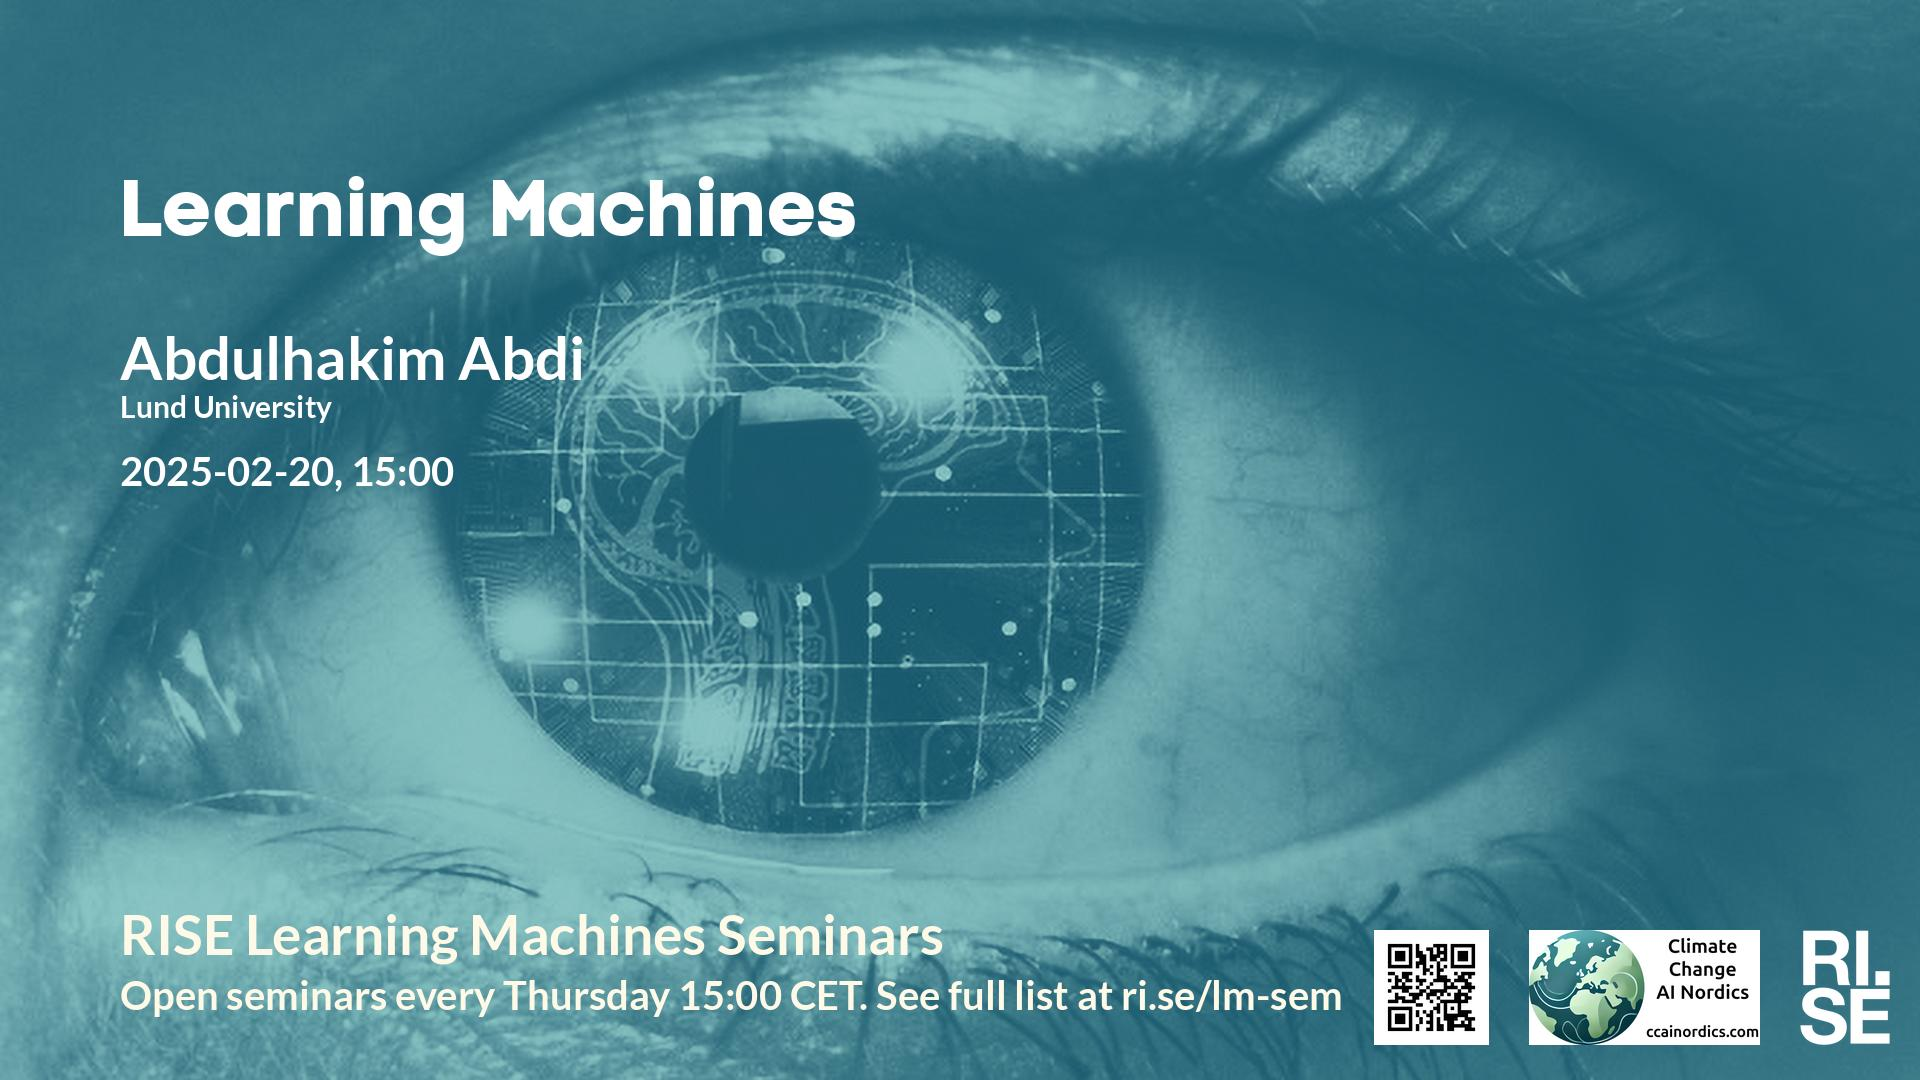
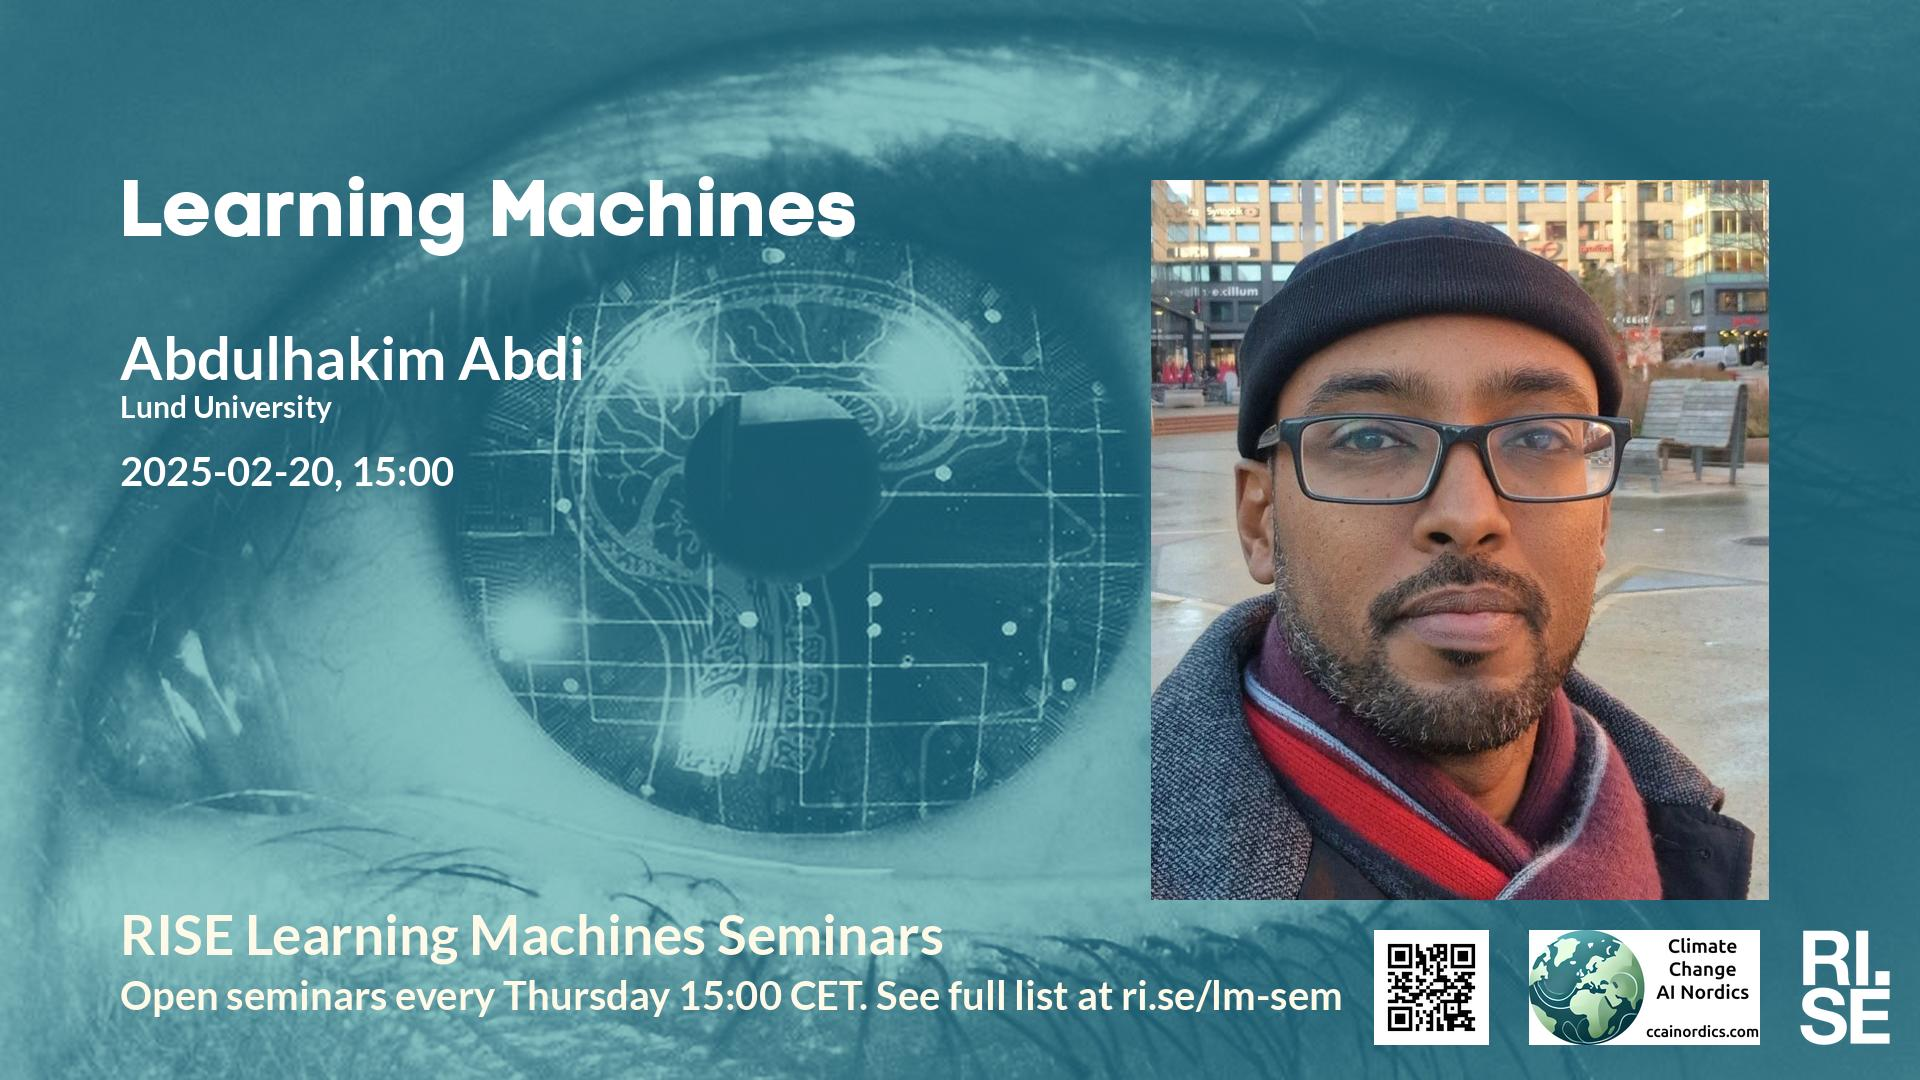
Updated plan on web site.

Changed region(s): [[0.5938, 0.1528, 0.9375, 0.8556]]

diff --git a/lm/index.md b/lm/index.md
@@ -19,7 +19,7 @@ table {border-collapse: collapse;}
 |  2025-01-30  |  [Amal Nammouchi, Karlstad University and AfriClimate AI](2025-01-30.md)  |  [photo](photo-amal-nammouchi.jpg)  |  [social media ](social-media-amal-nammouchi.jpg)  |  [meeting backdrop ](meeting-backdrop-amal-nammouchi.jpg)  |  [youtube thumbnail ](youtube-thumbnail-amal-nammouchi.jpg)  |  STABP  |
 | <span style="color:grey"> 2025-02-06 </span> | <span style="color:grey"> Sara H. ? </span> | <span style="color:grey">  </span> | <span style="color:grey">  </span> | <span style="color:grey">  </span> | <span style="color:grey">  </span> | <span style="color:grey"> S~~TABP~~ </span> |
 | <span style="color:red"> 2025-02-13 </span> | <span style="color:red"> Sportlov GBG </span> | <span style="color:red">  </span> | <span style="color:red">  </span> | <span style="color:red">  </span> | <span style="color:red">  </span> | <span style="color:red"> CANCELLED </span> |
-|  2025-02-20  |  [Abdulhakim Abdi, Lund University](2025-02-20.md)  |    |  [social media ](social-media-abdulhakim-abdi.jpg)  |  [meeting backdrop ](meeting-backdrop-abdulhakim-abdi.jpg)  |  [youtube thumbnail ](youtube-thumbnail-abdulhakim-abdi.jpg)  |  S~~TABP~~  |
+|  2025-02-20  |  [Abdulhakim Abdi, Lund University](2025-02-20.md)  |  [photo](photo-abdulhakim-abdi.jpg)  |  [social media ](social-media-abdulhakim-abdi.jpg)  |  [meeting backdrop ](meeting-backdrop-abdulhakim-abdi.jpg)  |  [youtube thumbnail ](youtube-thumbnail-abdulhakim-abdi.jpg)  |  S~~TAB~~P  |
 | <span style="color:red"> 2025-02-27 </span> | <span style="color:red"> Sportlov STHLM </span> | <span style="color:red">  </span> | <span style="color:red">  </span> | <span style="color:red">  </span> | <span style="color:red">  </span> | <span style="color:red"> CANCELLED </span> |
 | <span style="color:grey"> 2025-03-06 </span> | <span style="color:grey"> Atakan A. ? </span> | <span style="color:grey">  </span> | <span style="color:grey">  </span> | <span style="color:grey">  </span> | <span style="color:grey">  </span> | <span style="color:grey"> S~~TABP~~ </span> |
 | <span style="color:grey"> 2025-03-13 </span> | <span style="color:grey"> Sherrie W. ? </span> | <span style="color:grey">  </span> | <span style="color:grey">  </span> | <span style="color:grey">  </span> | <span style="color:grey">  </span> | <span style="color:grey"> S~~TA~~B~~P~~ </span> |
